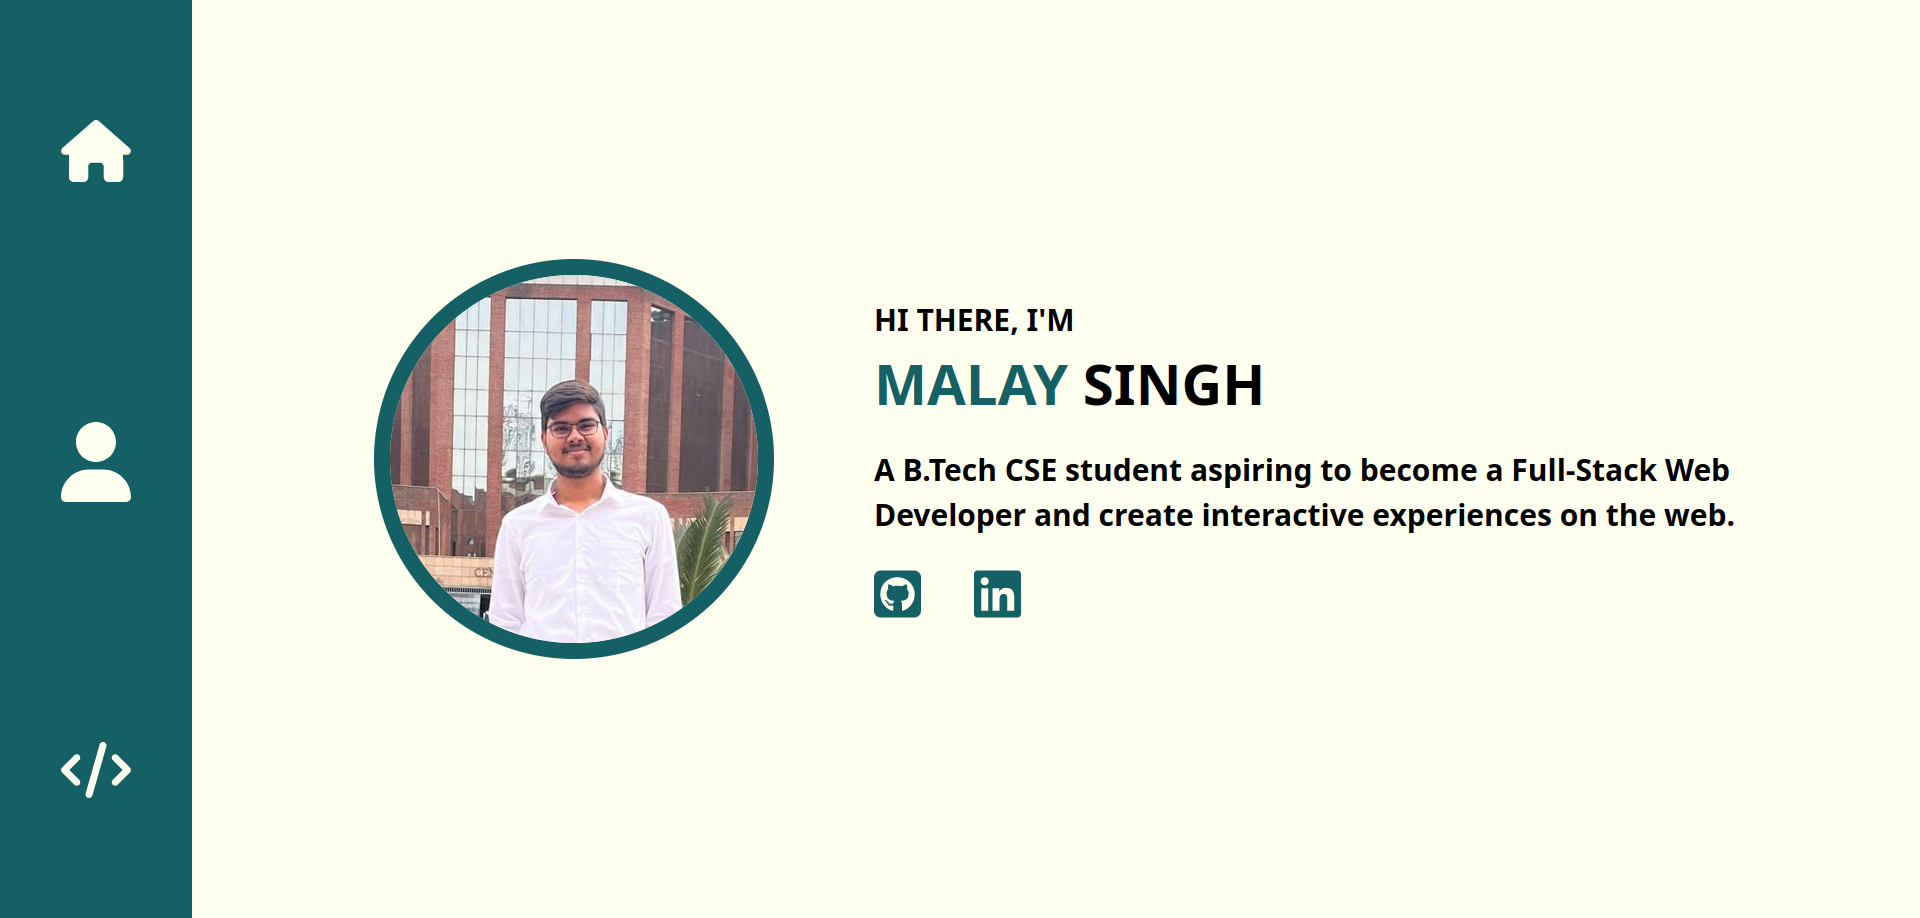
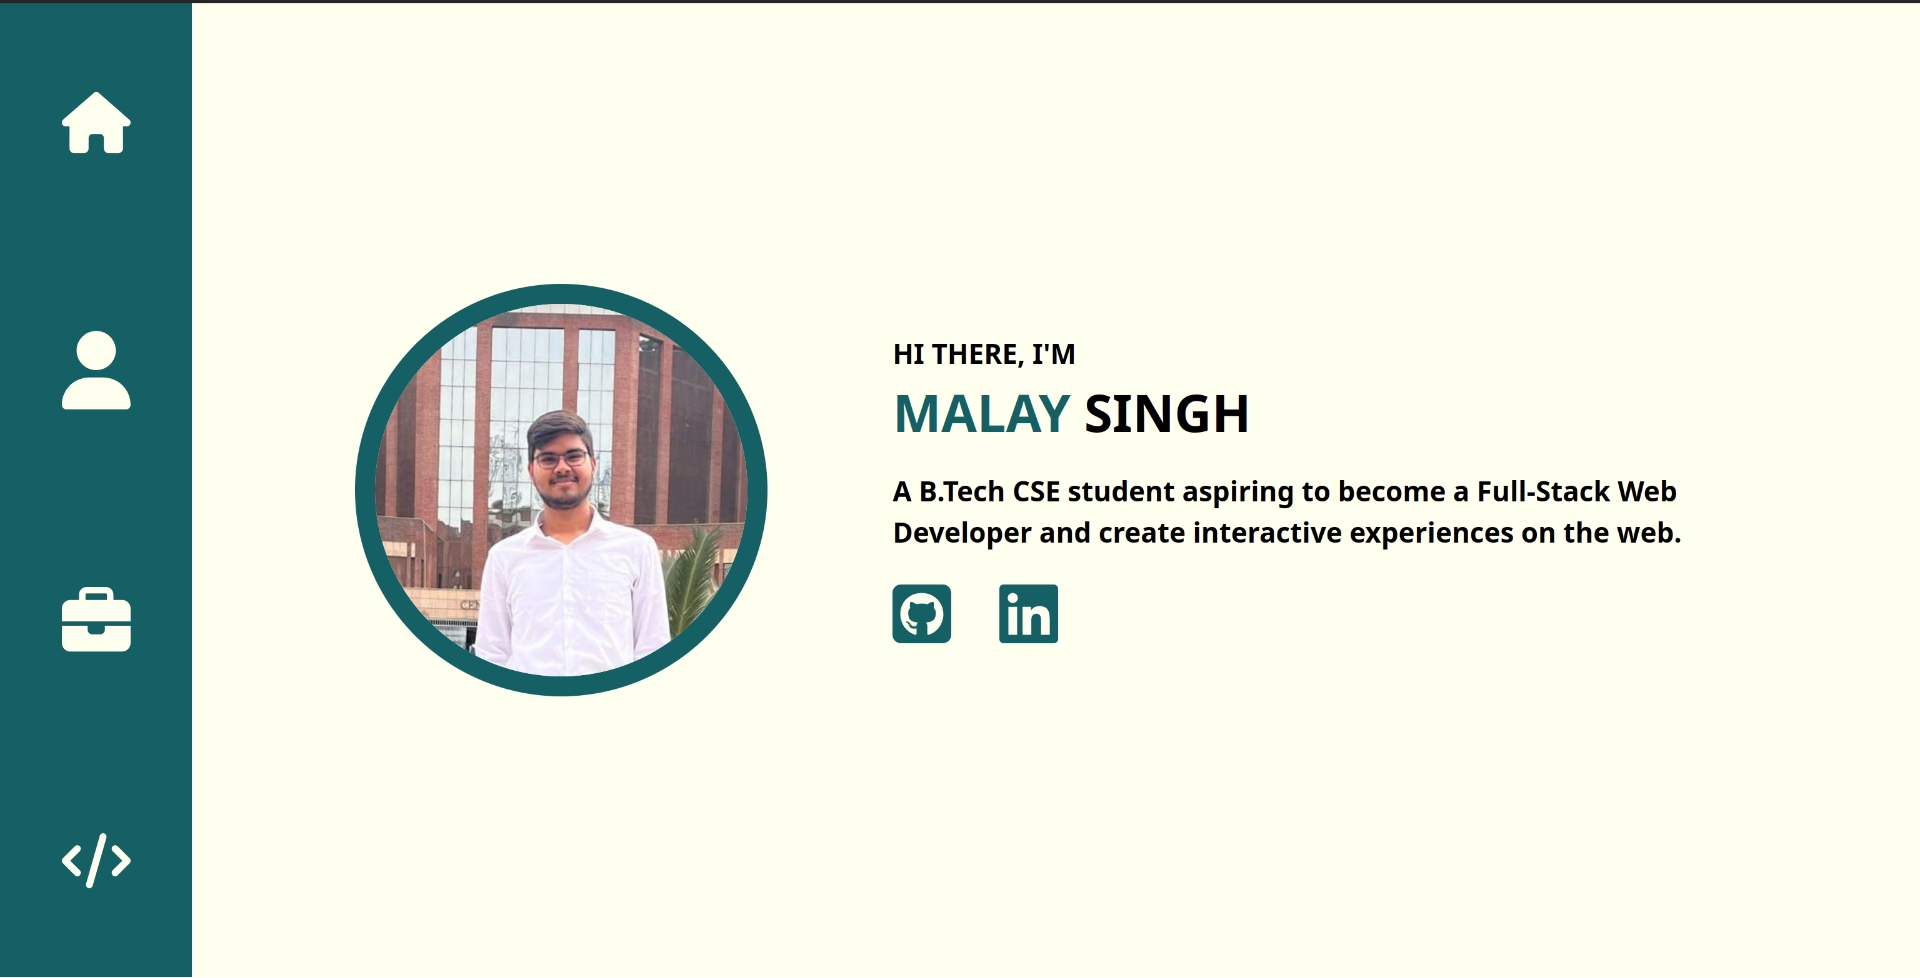
revamped about and added experience

diff --git a/src/components/About.tsx b/src/components/About.tsx
@@ -1,41 +1,104 @@
+import SkillContainer from "./SkillContainer"
+
 function About(){
+        const categories = [
+                {
+                        title: "Web Development",
+                        skills: [
+                                {
+                                        name: "JavaScript",
+                                        icon: "https://github.com/devicons/devicon/raw/master/icons/javascript/javascript-original.svg"
+                                },
+                                {
+                                        name: "TypeScript",
+                                        icon: "https://github.com/devicons/devicon/raw/master/icons/typescript/typescript-original.svg"
+                                },
+                                {
+                                        name: "Node.js",
+                                        icon: "https://github.com/devicons/devicon/raw/master/icons/nodejs/nodejs-original-wordmark.svg"
+                                },
+                                {
+                                        name:"Express.js",
+                                        icon: "https://github.com/devicons/devicon/raw/master/icons/express/express-original.svg"
+                                },
+                                {
+                                        name: "React.js",
+                                        icon: "https://github.com/devicons/devicon/raw/master/icons/react/react-original.svg"
+                                },
+                                {
+                                        name: "MongoDB",
+                                        icon: "https://github.com/devicons/devicon/raw/master/icons/mongodb/mongodb-original.svg"
+                                },
+                                {
+                                        name: "PostgreSQL",
+                                        icon: "https://github.com/devicons/devicon/raw/master/icons/postgresql/postgresql-original.svg"
+                                }
+                        ]
+                },
+                {
+                        title: "Languages",
+                        skills: [
+                                {
+                                        name: "Java",
+                                        icon: "https://github.com/devicons/devicon/raw/master/icons/java/java-original.svg"
+                                },
+                                {
+                                        name: "C++",
+                                        icon: "https://github.com/devicons/devicon/raw/master/icons/cplusplus/cplusplus-original.svg"
+                                },
+                                {
+                                        name:"Python",
+                                        icon: "https://github.com/devicons/devicon/raw/master/icons/python/python-original.svg"
+                                }
+                        ]
+                },
+                {
+                        title: "Others",
+                        skills: [
+                                {
+                                        name: "AWS",
+                                        icon: "https://github.com/devicons/devicon/raw/master/icons/amazonwebservices/amazonwebservices-plain-wordmark.svg"
+                                },
+                                {
+                                        name: "Git",
+                                        icon: "https://github.com/devicons/devicon/raw/master/icons/git/git-original.svg"
+                                },
+                                {
+                                        name: "Linux",
+                                        icon: "https://github.com/devicons/devicon/raw/master/icons/linux/linux-original.svg"
+                                },
+                                {
+                                        name: "nginx",
+                                        icon: "https://github.com/devicons/devicon/raw/master/icons/nginx/nginx-original.svg"
+                                }
+                        ]
+                }
+        ]
+
         return(
-                <div className="h-screen w-[90vw] flex justify-center items-center max-[600px]:w-screen max-[600px]:h-[90dvh] max-[600px]:items-start max-[600px]:py-10 scrollable">
+                <div className=" h-screen w-[90vw] flex justify-center items-center max-[600px]:w-screen max-[600px]:h-[90dvh] max-[600px]:items-start max-[600px]:py-10 scrollable">
                         <div className="text-xs flex flex-col w-[80%]">
-                                <div className="flex flex-col gap-4">
-                                        <div className="text-3xl">About Me</div>
-                                        <div className="text-sm">I'm a Computer Science engineer passionate about customizing operating systems, exploring hardware, and creating innovative web solutions. I specialize in Linux for its hands-on, customizable nature.<br />As a student, I bring both theoretical knowledge and practical experience, driven by curiosity. I'm excited to collaborate on projects and contribute to groundbreaking initiatives in the field.</div>
+                                <div className="flex flex-col gap-6">
+
+                                        <div className="flex flex-col gap-3">
+                                                <div className="text-3xl">About Me</div>
+                                                <div className="text-sm">I'm a Computer Science engineer passionate about customizing operating systems, exploring hardware, and creating innovative web solutions. I specialize in Linux for its hands-on, customizable nature.<br />As a student, I bring both theoretical knowledge and practical experience, driven by curiosity. I'm excited to collaborate on projects and contribute to groundbreaking initiatives in the field.</div>
+                                        </div>
 
                                         <div className="flex max-[600px]:flex-col max-[600px]:gap-4">
-                                                <div className="relative w-[50%]">
-                                                        <span className="text-3xl">Skills</span><br />
-                                                        <ol className="mt-3 list-decimal list-inside leading-snug">
-                                                                <li>MERN Stack</li>
-                                                                <li>Programming Languages
-                                                                        <ul className="list-disc list-inside ml-7">
-                                                                                <li>Java</li>
-                                                                                <li>C++</li>
-                                                                                <li>Python</li>
-                                                                        </ul>
-                                                                </li>
-                                                                <li>Amazon Web Services</li>
-                                                                <li>Git</li>
-                                                                <li>Linux</li>
-                                                                <li>Networking</li>
-                                                        </ol>
-                                                </div>
+                                                <div className="w-full flex flex-col gap-3">
 
-                                                <div className="border-l-2 border-black max-[600px]:border-none">
-                                                        <span className="text-3xl ml-9 max-[600px]:ml-0">Contact</span>
+                                                        <div className="text-3xl">Skills</div>
 
-                                                        <div className="ml-9 mt-9 flex items-center gap-4 max-[600px]:ml-0 max-[600px]:mt-5">
-                                                                <img src="phone.svg" width="35px" />+91 9312711492
+                                                        <div className="h-[fit-content] w-full flex justify-around max-[600px]:flex-col max-[600px]:items-center max-[600px]:h-[160dvh]">
+                                                                {categories.map(category =>(
+                                                                        <SkillContainer category={category} />
+                                                                ))}
                                                         </div>
-                                                        <div className="ml-9 mt-9 flex items-center gap-4 max-[600px]:ml-0 max-[600px]:mt-7">
-                                                                <img src="mail.svg" width="35px" />malay4singh@gmail.com
-                                                        </div>
+
                                                 </div>
                                         </div>
+
                                 </div>
                         </div>
                 </div>

diff --git a/src/components/WorkExperience.tsx b/src/components/WorkExperience.tsx
@@ -1,0 +1,43 @@
+function WorkExperience(){
+        return(
+                <div className=" h-screen w-[90vw] flex justify-center items-center max-[600px]:w-screen max-[600px]:h-[90dvh] max-[600px]:items-start max-[600px]:py-10 scrollable">
+                        <div className="text-xs flex flex-col w-[80%]">
+                                <div className="flex flex-col gap-6">
+
+                                        <div className="text-3xl mb-2">Work Experience</div>
+
+                                        <div className="flex flex-col gap-3">
+                                                <div className="text-xl text-[#156064] flex gap-2 items-center"><img src="location.svg" width={'20px'} />
+                                                        National Informatics Centre - 01/05/2024 to 14/06/2024
+                                                </div>
+                                                <div className="text-md ml-6 flex flex-col">
+                                                        <div className="flex gap-2 py-1"><img src="point.svg" width={'12px'} />Worked on the e-Jagriti Platform</div>
+                                                        <div className="flex gap-2 py-1"><img src="point.svg" width={'12px'} />Authentication, Authorization and Validation</div>
+                                                        <div className="flex gap-2 py-1"><img src="point.svg" width={'12px'} />React Router Authorization (Role-based)</div>
+                                                        <div className="flex gap-2 py-1"><img src="point.svg" width={'12px'} />Child nodes and Outlets</div>
+                                                        <div className="flex gap-2 py-1"><img src="point.svg" width={'12px'} />PostgreSQL</div>
+                                                        <div className="flex gap-2 py-1"><img src="point.svg" width={'12px'} />JWT Tokens (Access and Refresh)</div>
+                                                </div>
+                                        </div>
+
+                                        <div className="flex flex-col gap-3 ">
+                                                <div className="text-xl text-[#156064] flex gap-2 items-center"><img src="location.svg" width={'20px'} />
+                                                iHUB DivyaSampark @ IIT Roorkee - 12/06/2023 to 26/07/2023
+                                                </div>
+                                                <div className="text-md ml-6 flex flex-col gap-1">
+                                                        <div className="flex gap-2 py-1"><img src="point.svg" width={'12px'} />Digital Footprinting</div>
+                                                        <div className="flex gap-2 py-1"><img src="point.svg" width={'12px'} />Web App Security</div>
+                                                        <div className="flex gap-2 py-1"><img src="point.svg" width={'12px'} />DOS, DDOS, SQL Injection</div>
+                                                        <div className="flex gap-2 py-1"><img src="point.svg" width={'12px'} />Penetration Testing Tools – nmap, recon-ng, SQLMap</div>
+                                                        <div className="flex gap-2 py-1"><img src="point.svg" width={'12px'} />Integrating Tools with Python Scripts</div>
+                                                        <div className="flex gap-2 py-1"><img src="point.svg" width={'12px'} />Project on Sub-domain discovery</div>
+                                                </div>
+                                        </div>
+
+                                </div>
+                        </div>
+                </div>
+        )
+}
+
+export default WorkExperience

diff --git a/src/components/Home.tsx b/src/components/Home.tsx
@@ -19,13 +19,18 @@ function Home(){
                                         A B.Tech CSE student aspiring to become a Full-Stack Web Developer and create interactive experiences on the web.
                                 </div>
 
-                                <div className="flex gap-7">
-                                        <div>
-                                                <a href="https://github.com/malay4singh" target="_blank"><img src="github.svg" width='47px' /></a>
+                                <div className="flex gap-7 h-[50px] items-center">
+                                        <div className="h-[100%]">
+                                                <a href="https://github.com/malay4singh" target="_blank"><img className="h-[100%]" src="github.svg" /></a>
                                         </div>
-                                        <div>
-                                                <a href="https://www.linkedin.com/in/malay-singh-15b722274/" target="_blank"><img src="linkedin.svg" width='47px' /></a>
+                                        <div className="h-[100%]">
+                                                <a href="https://www.linkedin.com/in/malay-singh-15b722274/" target="_blank"><img className="h-[100%]" src="linkedin.svg" /></a>
                                         </div>
+                                        <a className="h-full flex items-center" href="https://drive.google.com/file/d/15esulUdejfbUMK6iIHqQJPGsBVbTkBR8/view?usp=sharing" target="_blank">
+                                                <div className="px-1 rounded bg-[#156064] text-[#fffff0] flex gap-2 h-[90%] items-center">
+                                                        RESUME <img src="link.svg" width={'20px'} />
+                                                </div>
+                                        </a>
                                 </div>
                         </div>
                 </div>

diff --git a/src/components/Main.tsx b/src/components/Main.tsx
@@ -1,6 +1,7 @@
 import Home from './Home'
 import About from './About'
 import Projects from './Projects'
+import WorkExperience from './WorkExperience'
 
 interface MainProps{
         navigation: number
@@ -11,10 +12,12 @@ function Main(props: MainProps){
 
         return(
                 <div className='bg-[#FFFFF0]'>
-                        <section className='max-[600px]:flex max-[600px]:flex max-[600px]:overflow-x-hidden max-[600px]:w-[300vw]' style={{transform: isSmallScreen ?`translate(${props.navigation}%, 0)` : `translate(0, ${props.navigation}%)`, transition: `transform 0.3s`}}>
+                        <section className='max-[600px]:flex max-[600px]:overflow-x-hidden max-[600px]:w-[400vw]' style={{transform: isSmallScreen ?`translate(${props.navigation}%, 0)` : `translate(0, ${props.navigation}%)`, transition: `transform 0.3s`}}>
                                 <Home />
 
                                 <About />
+
+                                <WorkExperience />
 
                                 <Projects />
                         </section>

diff --git a/src/components/Navbar.tsx b/src/components/Navbar.tsx
@@ -9,8 +9,9 @@ function Navbar(props: NavbarProps){
                 <nav>
                         <div className="bg-[#156064] h-screen w-[10vw] flex flex-col items-center justify-around max-[600px]:h-[10vh] max-[600px]:w-screen max-[600px]:flex-row">
                                 <Icon name="home" setNavigation={props.setNavigation} screen={-0} />
-                                <Icon name="about" setNavigation={props.setNavigation} screen={-33.333333} />
-                                <Icon name="projects" setNavigation={props.setNavigation} screen={-66.666666} />
+                                <Icon name="about" setNavigation={props.setNavigation} screen={-25} />
+                                <Icon name="work" setNavigation={props.setNavigation} screen={-50} />
+                                <Icon name="projects" setNavigation={props.setNavigation} screen={-75} />
                         </div>
                 </nav>
         )

diff --git a/src/components/SkillContainer.tsx b/src/components/SkillContainer.tsx
@@ -1,0 +1,27 @@
+import SkillIcon from "./SkillIcon"
+
+interface Category {
+        title: string,
+        skills: Array<any>
+}
+
+interface SkillContainerProps {
+        category: Category
+}
+
+function SkillContainer(props: SkillContainerProps) {
+        return (
+                <div className="bg-[#156064] w-[fit-content] rounded-lg">
+                        <div className="p-5 pb-3 text-[#fffff0]">
+                                {props.category.title}
+                        </div>
+                        <div className="grid grid-rows-3 grid-flow-col p-5 pt-2 gap-2 max-[600px]:grid-cols-2 max-[600px]:grid-flow-row">
+                                {props.category.skills.map(skill => (
+                                        <SkillIcon skill={skill} />
+                                ))}
+                        </div>
+                </div>
+        )
+}
+
+export default SkillContainer

diff --git a/src/components/ProjectDetails.tsx b/src/components/ProjectDetails.tsx
@@ -20,7 +20,7 @@ function ProjectDetails(props: ProjectDetailsProps){
         }
 
         return(
-                <div className={`p-7 border-2 border-black absolute w-[75%] h-[30%] ${props.visibility ? "visible" : "invisible"} bg-[#156064] text-[#FFFFF0] rounded-lg max-[600px]:w-[25%] max-[600px]:h-fit max-[600px]:overflow-y-scroll`}>
+                <div className={`p-7 border-2 border-black absolute w-[75%] h-[20%] ${props.visibility ? "visible" : "invisible"} bg-[#156064] text-[#FFFFF0] rounded-lg max-[600px]:w-[25%] max-[600px]:h-fit max-[600px]:overflow-y-scroll`}>
                         
                         <div className="text-2xl ">
                                 {props.projectDetails.name}

diff --git a/src/components/SkillIcon.tsx b/src/components/SkillIcon.tsx
@@ -1,0 +1,19 @@
+interface Skill {
+        name: string,
+        icon: string
+}
+
+interface SkillIconProps {
+        skill: Skill
+}
+
+function SkillIcon(props: SkillIconProps) {
+        return (
+                <div className="bg-[#fffff0] flex flex-col p-1 items-center gap-1 transition ease-in-out hover:shadow-2xl hover:scale-110 duration-400 w-[100px] min-[1700px]:w-[130px] overflow-hidden">
+                        <img src={props.skill.icon} width={'50px'} />
+                        <span className="p-0.7 text-[0.7rem]">{props.skill.name}</span>
+                </div>
+        )
+}
+
+export default SkillIcon
